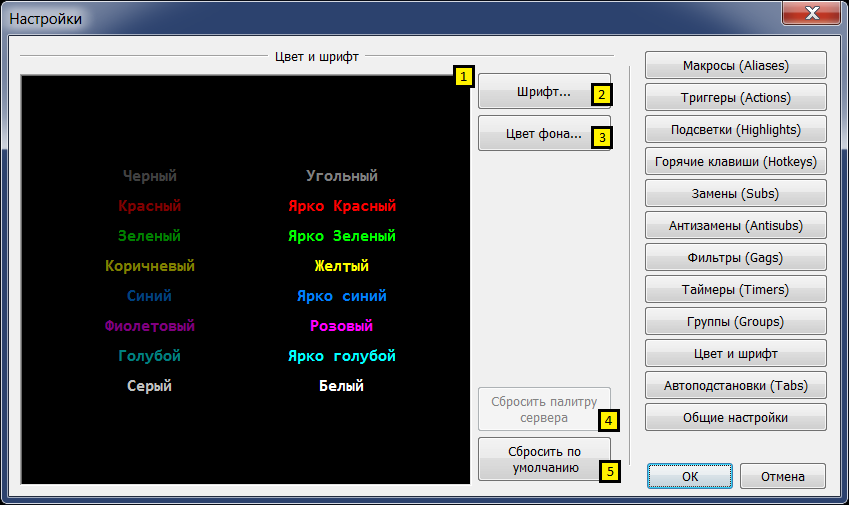
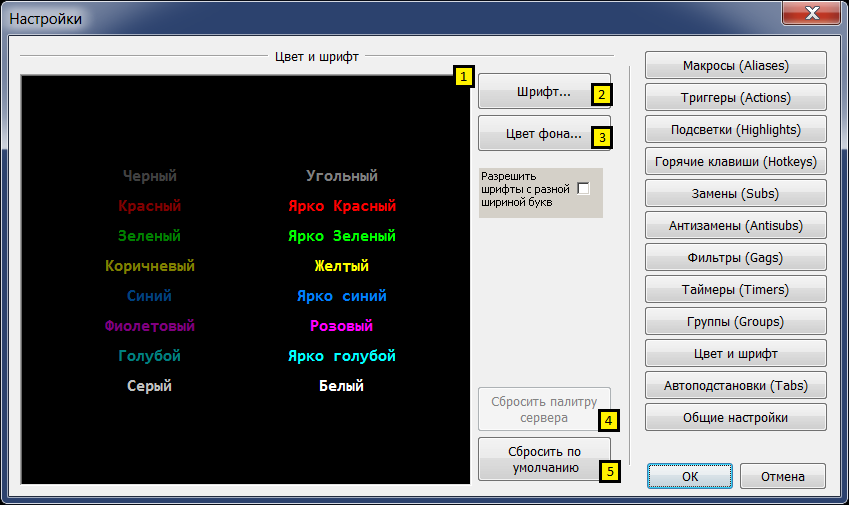
Сделана кнопка непропорциональных шрифтов. Нужно обновить картинку в справке.

Changed region(s): [[0.5512, 0.3267, 0.735, 0.4455]]

diff --git a/mudclient/src/propertiesPages/propertiesPageColors.h b/mudclient/src/propertiesPages/propertiesPageColors.h
@@ -54,10 +54,12 @@ public:
         }
     }
 
-    void onSelectFont()
+    void onSelectFont(bool any_fonts)
     {
         LOGFONT lf = m_logfont;
-        CFontDialog dlg(&lf, CF_FIXEDPITCHONLY|CF_SCREENFONTS, NULL, GetParent());
+        DWORD dwFlags = CF_SCREENFONTS;
+        if (!any_fonts) dwFlags|= CF_FIXEDPITCHONLY;
+        CFontDialog dlg(&lf, dwFlags, NULL, GetParent());
         if (dlg.DoModal() == IDOK)
         {
             propData->font_name.assign(lf.lfFaceName);
@@ -273,7 +275,7 @@ class PropertyColors :  public CDialogImpl<PropertyColors>
     ColorExampleWindow m_colors;
     CBevelLine m_bl1, m_bl2;
     CButton m_reset_osc;
-
+    CButton m_any_font;
 public:
     enum { IDD = IDD_PROPERTY_COLORS_FONT };
     PropertyColors(PropertiesData *data) : propData(data), m_colors(data) {}
@@ -285,6 +287,7 @@ private:
        COMMAND_ID_HANDLER(IDC_BUTTON_COLOR_RESET, OnResetColors)
        COMMAND_ID_HANDLER(IDC_BUTTON_FONT, OnSelectFont)
        COMMAND_ID_HANDLER(IDC_BUTTON_COLOR_RESETOSC, OnResetOscColors)
+       COMMAND_ID_HANDLER(IDC_CHECK_ANYFONTS, OnAnyFont)
        MESSAGE_HANDLER(WM_USER, OnChangedOscColor)
     END_MSG_MAP()
 
@@ -293,6 +296,7 @@ private:
         m_bl1.SubclassWindow(GetDlgItem(IDC_STATIC_BL1));
         m_bl2.SubclassWindow(GetDlgItem(IDC_STATIC_BL2));
         m_reset_osc.Attach(GetDlgItem(IDC_BUTTON_COLOR_RESETOSC));
+        m_any_font.Attach(GetDlgItem(IDC_CHECK_ANYFONTS));
 
         RECT pos;
         CStatic colorspos(GetDlgItem(IDC_STATIC_COLORS_WINDOW));
@@ -300,6 +304,8 @@ private:
         ScreenToClient(&pos);
         colorspos.ShowWindow(SW_HIDE);
         m_colors.Create(m_hWnd, pos, NULL, WS_CHILD | WS_VISIBLE | WS_CLIPSIBLINGS | WS_CLIPCHILDREN, WS_EX_CLIENTEDGE);
+
+        m_any_font.SetCheck(propData->any_font ? BST_CHECKED : BST_UNCHECKED);
 
         setResetOscButtonState();
         return 0;
@@ -328,6 +334,8 @@ private:
 
     LRESULT OnResetColors(WORD, WORD, HWND, BOOL&)
     {
+        propData->any_font = 0;
+        m_any_font.SetCheck(BST_UNCHECKED);
         m_colors.onResetColors();
         return 0;
     }
@@ -340,7 +348,16 @@ private:
 
     LRESULT OnSelectFont(WORD, WORD, HWND, BOOL&)
     {
-        m_colors.onSelectFont();
+        bool any_font = (propData->any_font == 1) ? true : false;
+        m_colors.onSelectFont(any_font);
         return 0;
     }
+
+    LRESULT OnAnyFont(WORD, WORD, HWND, BOOL&)
+    {
+        int state = (m_any_font.GetCheck() == BST_CHECKED) ? 1 : 0;
+        propData->any_font = state;
+        return 0;
+    }
+
 };

diff --git a/mudclient/src/propertiesPages/propertiesManager.cpp b/mudclient/src/propertiesPages/propertiesManager.cpp
@@ -110,6 +110,7 @@ bool PropertiesManager::loadProfileData()
     loadValue(sd, L"plogswnd", 0, OUTPUT_WINDOWS, &m_propData.plugins_logs_window);
     loadValue(sd, L"softscroll", 0, 1, &m_propData.soft_scroll);
     loadValue(sd, L"unknowncmd", 0, 1, &m_propData.unknown_cmd);
+    loadValue(sd, L"anyfont", 0, 1, &m_propData.any_font);
     tstring cp;
     loadString(sd, L"codepage", &cp);
     if (cp != L"win" && cp != L"utf8")
@@ -219,6 +220,7 @@ bool PropertiesManager::saveProfileData()
     saveValue(sd, L"plogswnd", m_propData.plugins_logs_window);
     saveValue(sd, L"softscroll", m_propData.soft_scroll);
     saveValue(sd, L"unknowncmd", m_propData.unknown_cmd);
+    saveValue(sd, L"anyfont", m_propData.any_font);
     saveString(sd, L"codepage", m_propData.codepage);
     saveString(sd, L"logformat", m_propData.logformat);
     saveValue(sd, L"prompt", m_propData.recognize_prompt);

diff --git a/mudclient/src/propertiesPages/propertiesData.h b/mudclient/src/propertiesPages/propertiesData.h
@@ -444,7 +444,7 @@ public:
        , cmd_history_size(DEFAULT_CMD_HISTORY_SIZE)
        , show_system_commands(0), clear_bar(1), disable_ya(0), disable_osc(1)
        , history_tab(1), timers_on(0), plugins_logs(1), plugins_logs_window(0), recognize_prompt(0)
-       , soft_scroll(0), unknown_cmd(0)
+       , soft_scroll(0), unknown_cmd(0), any_font(false)
     {
         initDefaultColorsAndFont();
         initDisplay();
@@ -500,6 +500,7 @@ public:
 
         soft_scroll = p.soft_scroll;
         unknown_cmd = p.unknown_cmd;
+        any_font = p.any_font;
         //skip title
     }
 
@@ -568,6 +569,7 @@ public:
 
     int      soft_scroll;
     int      unknown_cmd;
+    int      any_font;
 
     tstring title;        // name of main window (dont need to save)
 

diff --git a/mudclient/res/resource.h b/mudclient/res/resource.h
@@ -124,6 +124,7 @@
 #define IDC_RADIO_END_BEGIN             1140
 #define IDC_RADIO_BEGIN_END             1141
 #define IDC_CHECK_UNKNOWNCMD            1142
+#define IDC_CHECK_ANYFONTS              1143
 #define ID_SETTINGS                     32776
 #define ID_WINDOW_1                     32777
 #define ID_WINDOW_2                     32778
@@ -147,7 +148,7 @@
 #ifndef APSTUDIO_READONLY_SYMBOLS
 #define _APS_NEXT_RESOURCE_VALUE        224
 #define _APS_NEXT_COMMAND_VALUE         32801
-#define _APS_NEXT_CONTROL_VALUE         1143
+#define _APS_NEXT_CONTROL_VALUE         1144
 #define _APS_NEXT_SYMED_VALUE           101
 #endif
 #endif
